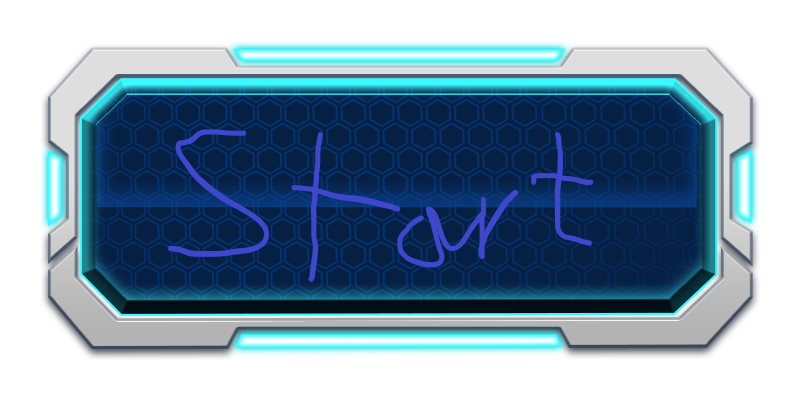
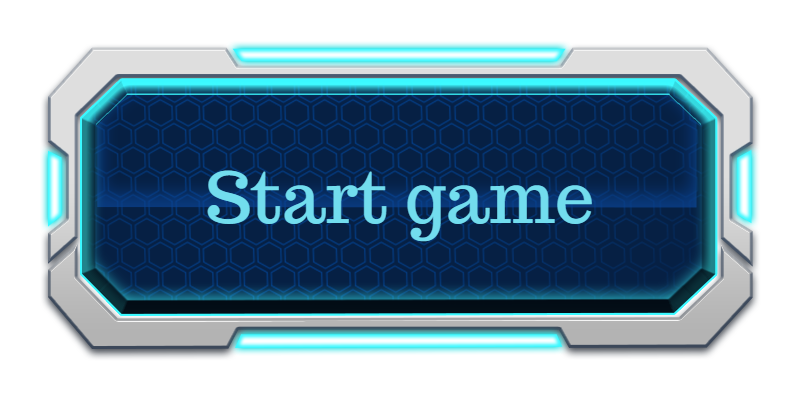
Improved menu Buttons and added create/join game buttons

Changed region(s): [[0.1875, 0.2948, 0.75, 0.7076], [0.7188, 0.5897, 0.75, 0.6192]]

diff --git a/src/main/java/inf112/skeleton/app/screens/ButtonSkin.java b/src/main/java/inf112/skeleton/app/screens/ButtonSkin.java
@@ -14,8 +14,8 @@ public class ButtonSkin {
 
         TextureRegion confirmReady = new TextureRegion(new Texture("assets/images/ConfirmButton.png"));
         TextureRegion confirmNotReady = new TextureRegion(new Texture("assets/images/ConfirmButtonNotReady.png"));
-        TextureRegion Exit = new TextureRegion(new Texture("assets/images/Exit_Button_Active.png"));
-        TextureRegion ExitOver = new TextureRegion(new Texture("assets/images/Exit_Button_Inactive.png"));
+        TextureRegion Exit = new TextureRegion(new Texture("assets/images/Exit button active.png"));
+        TextureRegion ExitOver = new TextureRegion(new Texture("assets/images/Exit button inactive.png"));
         TextureRegion Start = new TextureRegion(new Texture("assets/images/Start_Button_Active.png"));
         TextureRegion StartOver = new TextureRegion(new Texture("assets/images/Start_Button.png"));
 

diff --git a/src/main/java/inf112/skeleton/app/screens/gamescreen/GameScreenActors.java b/src/main/java/inf112/skeleton/app/screens/gamescreen/GameScreenActors.java
@@ -61,13 +61,9 @@ public class GameScreenActors {
     }
 
     public void initializeProgramCardButtons() {
-        int numberOfProgramCardsDealtCuzOfUrDmgTokens = game.mainPlayer.getDamageTokens();
         int idx = 0;
         for (int dy = 1; dy <= 3; dy++) {
             for (int dx = 0; dx <= 2; dx++) {
-
-
-
                 ProgramCard card = game.mainPlayer.getAllCards().get(idx);
                 ImageButton.ImageButtonStyle cardStyle = new ImageButton.ImageButtonStyle();
                 cardStyle.up = cardSkin.getSkins().getDrawable(card.getName());
